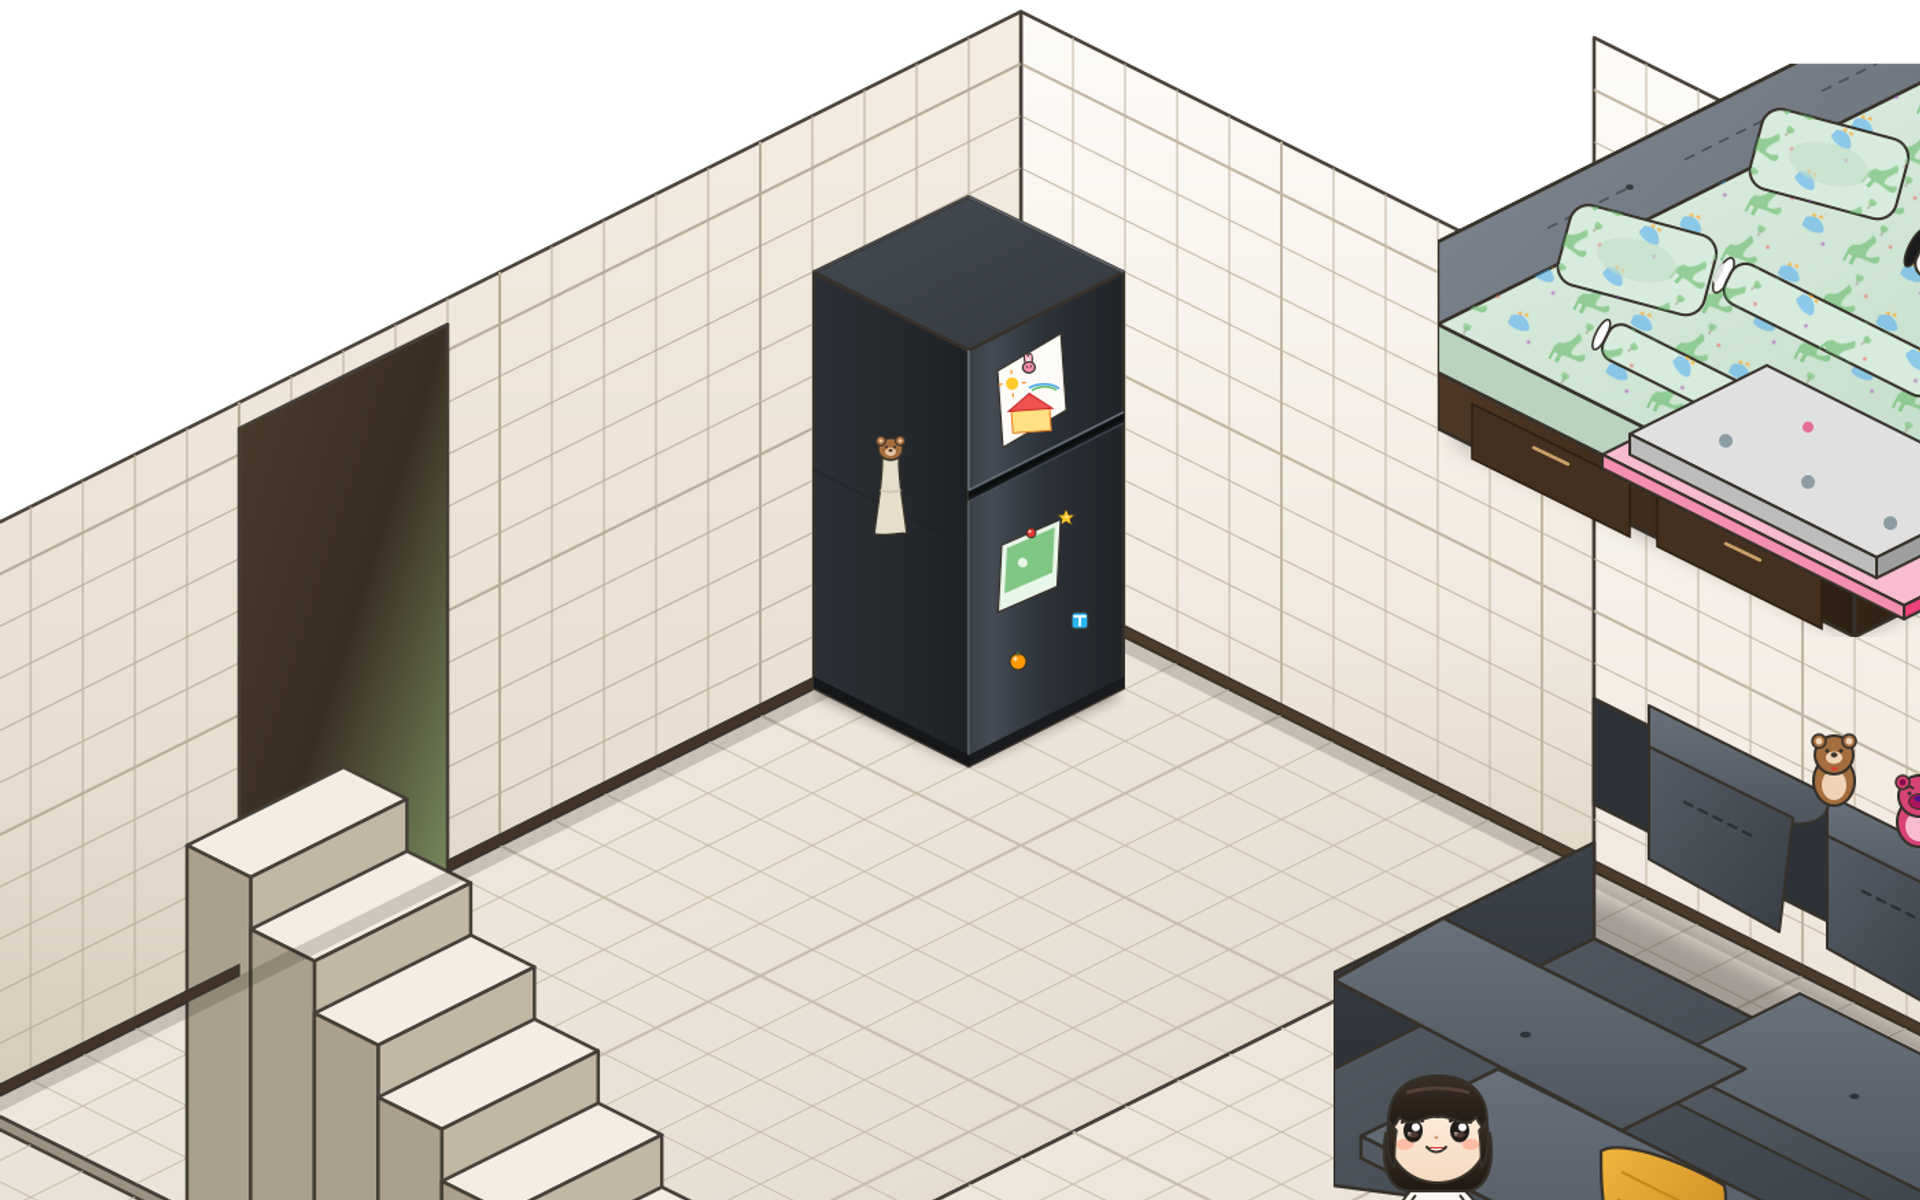
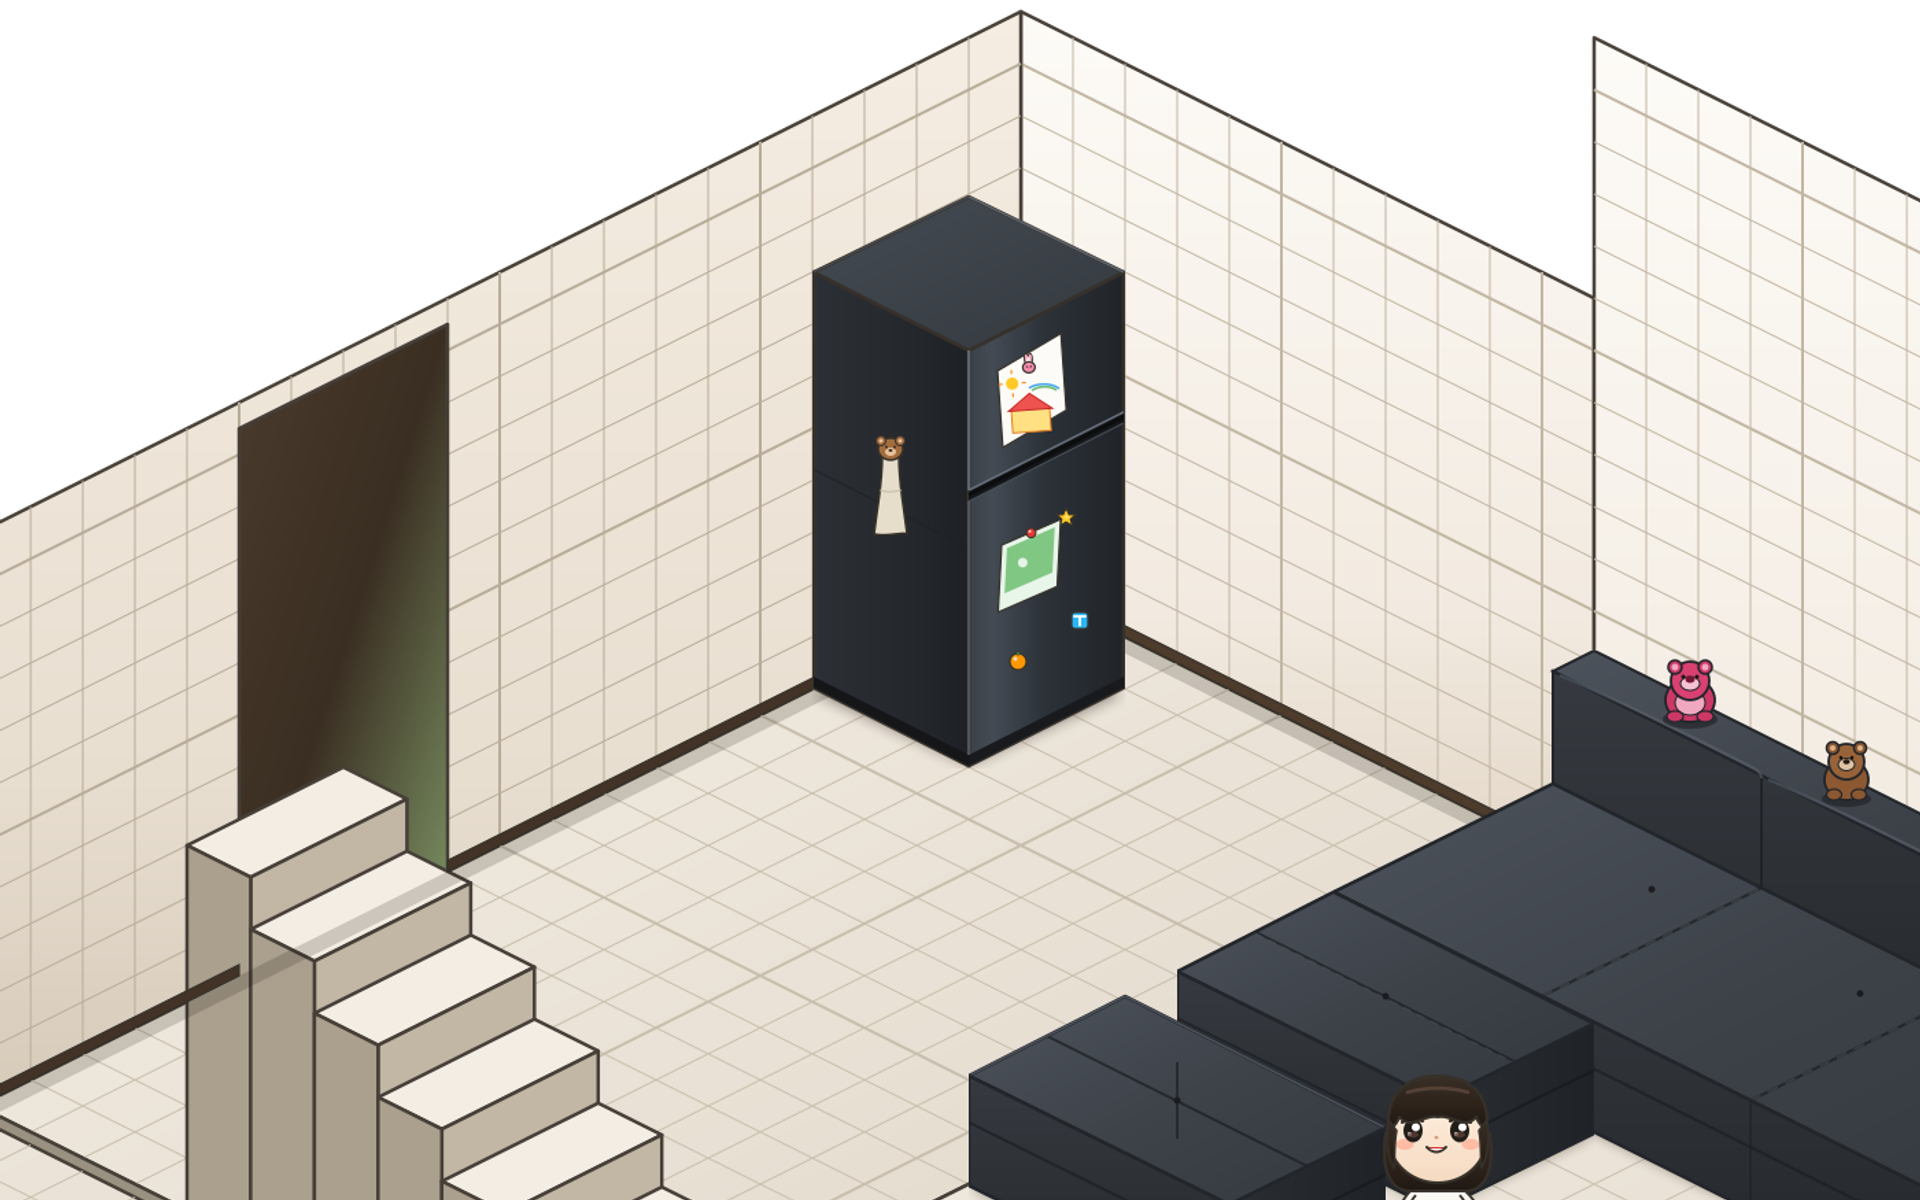
feat(design): update M1 house style test per Papa review (3-piece sofa, 1.1m kasur, bedroom preview)
- Split sofa into 3 solid props: sofa (646x484), sofa-l (304x238), and puf (304x238)
  with dark charcoal fabric, tufting, zero gaps, and 3 plush toys (Lotso, brown bear, white bunny)
- Redrew kasur at 684x550 (1.1m box) with grey channel-tufted headboard, standing pillows,
  dark walnut drawer base, mint dino sheets, Juventus bolster, and small neat blanket
- Removed kasur from ground floor composite; created dedicated bedroom preview on lt-atas floor
- Updated assets/manifest.json with new sofa-l and puf keys and verified sizes
- Updated object inventory in design/concepts/M1/house/README.md

Refs #3, #15, #17

Changed region(s): [[0.5, 0.5242, 1.0, 1.0], [0.75, 0.0308, 1.0, 0.5242]]

diff --git a/design/concepts/M1/house/README.md b/design/concepts/M1/house/README.md
@@ -83,20 +83,40 @@ In accordance with `AGENTS.md`:
 ## 2. Ruang Keluarga (Lt. Dasar, FFL ±0.00)
 
 ### `house.props.ruang-keluarga.sofa`
-- **Layout Rect**: `[1036, 686, 323, 237]` (2× asset: `646 × 474 px`)
+- **Layout Rect**: `[1036, 681, 323, 242]` (2× asset: `646 × 484 px`)
 - **Base Footprint**: `[[1131, 762], [1359, 876], [1264, 923], [1036, 809]]` (12 × 5 cells, 240 × 100 cm).
 - **Real Appearance in Photos** (`ruang-keluarga.jpg`):
-  - **Form & Type**: Large, plush modular L-shape / sectional sofa with an attached chaise and a separate rectangular matching ottoman bench.
-  - **Color & Material**: Upholstered in dark charcoal / slate grey textured woven fabric with neat button/stitch tufting on the seat cushions.
+  - **Form & Type**: The long section of the modular sectional sofa sitting against the rear wall, with a high structured backrest and padded right armrest.
+  - **Color & Material**: Upholstered in dark charcoal / slate grey textured woven fabric with neat button tufting indents and cushion seams.
   - **Details to Keep**:
-    - Segmented backrest cushions with adjustable pillow-top headrests along the upper edge.
-    - Wide, padded boxy armrests.
-    - Placed along the sofa backrest against the rear wall is a delightful row of stuffed animal plushies:
-      - Lotso bear (strawberry pink with magenta nose)
-      - Chubby brown bear doll
-      - Soft white bunny plushie
-    - Warm ochre-mustard knit throw blanket folded over the chaise corner.
-  - **Placement**: Sits facing the TV wall, with its back facing the dining bar counter.
+    - Segmented backrest cushions with pillow-top headrest ridges.
+    - Solid closed volume with thick seat cushions (~80 px) and fabric skirt down to floor; no gaps through which the floor is visible.
+    - Padded boxy armrest on the right wall end.
+    - Delightful row of plush toys perched atop the backrest against the rear wall:
+      - Lotso bear (strawberry pink with dark magenta nose)
+      - Chubby brown teddy bear
+      - Soft white bunny with floppy pink-lined ears.
+  - **Placement**: Sits against the rear wall facing the TV, flush with `sofa-l`.
+
+### `house.props.ruang-keluarga.sofa-l`
+- **Layout Rect**: `[979, 766, 152, 119]` (2× asset: `304 × 238 px`)
+- **Base Footprint**: `[[1036, 809], [1131, 857], [1074, 885], [979, 838]]` (5 × 3 cells, 100 × 60 cm).
+- **Real Appearance in Photos** (`ruang-keluarga.jpg`):
+  - **Form & Type**: The leg of the L-sectional, a seat without a back.
+  - **Color & Material**: Dark charcoal / slate grey textured woven fabric matching `sofa`.
+  - **Details to Keep**:
+    - Solid, closed volume: seat with real thickness (~80 px), clean stitch lines and center button tufting, vertical skirt down to floor base.
+    - Aligns flush against `sofa`'s front edge along `(2072, 1618)` to `(2262, 1714)` with zero gaps.
+
+### `house.props.ruang-keluarga.puf`
+- **Layout Rect**: `[903, 804, 152, 119]` (2× asset: `304 × 238 px`)
+- **Base Footprint**: `[[960, 847], [1055, 895], [998, 923], [903, 876]]` (5 × 3 cells, 100 × 60 cm).
+- **Real Appearance in Photos** (`ruang-keluarga.jpg`):
+  - **Form & Type**: Separate matching rectangular ottoman bench / footstool.
+  - **Color & Material**: Dark charcoal / slate grey textured woven fabric matching the sofa.
+  - **Details to Keep**:
+    - Solid, closed volume with tufted cushion top and vertical fabric apron down to floor.
+    - Placed side by side with `sofa-l`, reading as a complete lounge ensemble with the L-sofa.
 
 ### `house.props.ruang-keluarga.rak-tv`
 - **Layout Rect**: `[808, 885, 114, 133]` (2× asset: `228 × 266 px`)
@@ -172,17 +192,20 @@ In accordance with `AGENTS.md`:
 ## 6. Kamar Tidur Utama (Lt. Atas, FFL +3.40)
 
 ### `house.props.kamar-tidur.kasur`
-- **Layout Rect**: `[1074, 467, 342, 209]` (2× asset: `684 × 418 px`)
+- **Layout Rect**: `[1074, 401, 342, 275]` (2× asset: `684 × 550 px`)
 - **Base Footprint**: `[[1264, 505], [1416, 581], [1226, 676], [1074, 600]]` (8 × 10 cells, 160 × 200 cm queen size).
+- **Blockout Height**: 1.1 m tall box (209 px at 2×) extending to the top of the headboard against the `wall-y0` back wall.
 - **Real Appearance in Photos** (`atas-kamar-tidur/kamar-tidur-1.jpg`, `kamar-tidur-2.jpg`):
-  - **Form & Type**: Queen-size master platform bed with solid base incorporating pull-out under-bed storage drawers.
-  - **Color & Material**: Dark brown walnut wooden platform base; tailored rectangular padded headboard upholstered in textured light grey fabric.
+  - **Form & Type**: Queen-size master platform bed with solid dark brown walnut base incorporating pull-out under-bed storage drawers and a tall padded headboard.
+  - **Color & Material**: Dark brown walnut wooden base (`#4a3120` to `#2d1c11`); tailored rectangular padded headboard upholstered in textured grey fabric (`#7a818c` to `#555a63`) with vertical channel tufting.
   - **Details to Keep**:
-    - Dressed in Theia's signature pale mint/sage green bedsheet printed with adorable colourful miniature cartoon dinosaurs and palm trees (`#d4e9d7`).
-    - Two matching mint dinosaur sleeping pillows at the headboard.
-    - Two matching mint dinosaur bolsters (`guling`) with white tied ends.
-    - Papa's distinctive black-and-white vertical striped Juventus bolster lying along the right side!
-    - Folded neat blankets at the foot of the bed: a soft grey animal-print fleece blanket layered over a plush pastel pink blanket.
+    - Grey upholstered headboard stands 1.1 m tall against the back (`y0`) wall.
+    - Two plush pillows propped upright against the headboard.
+    - Mattress top sits at ~0.5 m (~95 px at 2×) on the dark brown walnut drawer base with visible drawer divider lines and minimalist pulls on the left face.
+    - Dressed in neat pale mint/sage green bedsheet printed with tiny subtle dinosaur motifs.
+    - Theia's matching mint dino bolster (`guling`) with white tied ruffles, and Papa's iconic black-and-white vertically striped Juventus bolster along the right side.
+    - Small folded blanket (heather grey waffle fleece over soft pink layer) resting neatly on the mattress, well clear of and never hanging over the front edge.
+    - The sticker-wall / pin board spot (`spots.sticker-wall` at `[1302, 344, 114, 114]`, 2× `[2604, 688, 228, 228]`) hangs on `wall-y0` directly above the headboard.
   - **In-Game Role**: Key anchor for bedtime storytelling and ending sequence (`SCR-BEDTIME`).
 
 ### `house.props.kamar-tidur.lemari`
